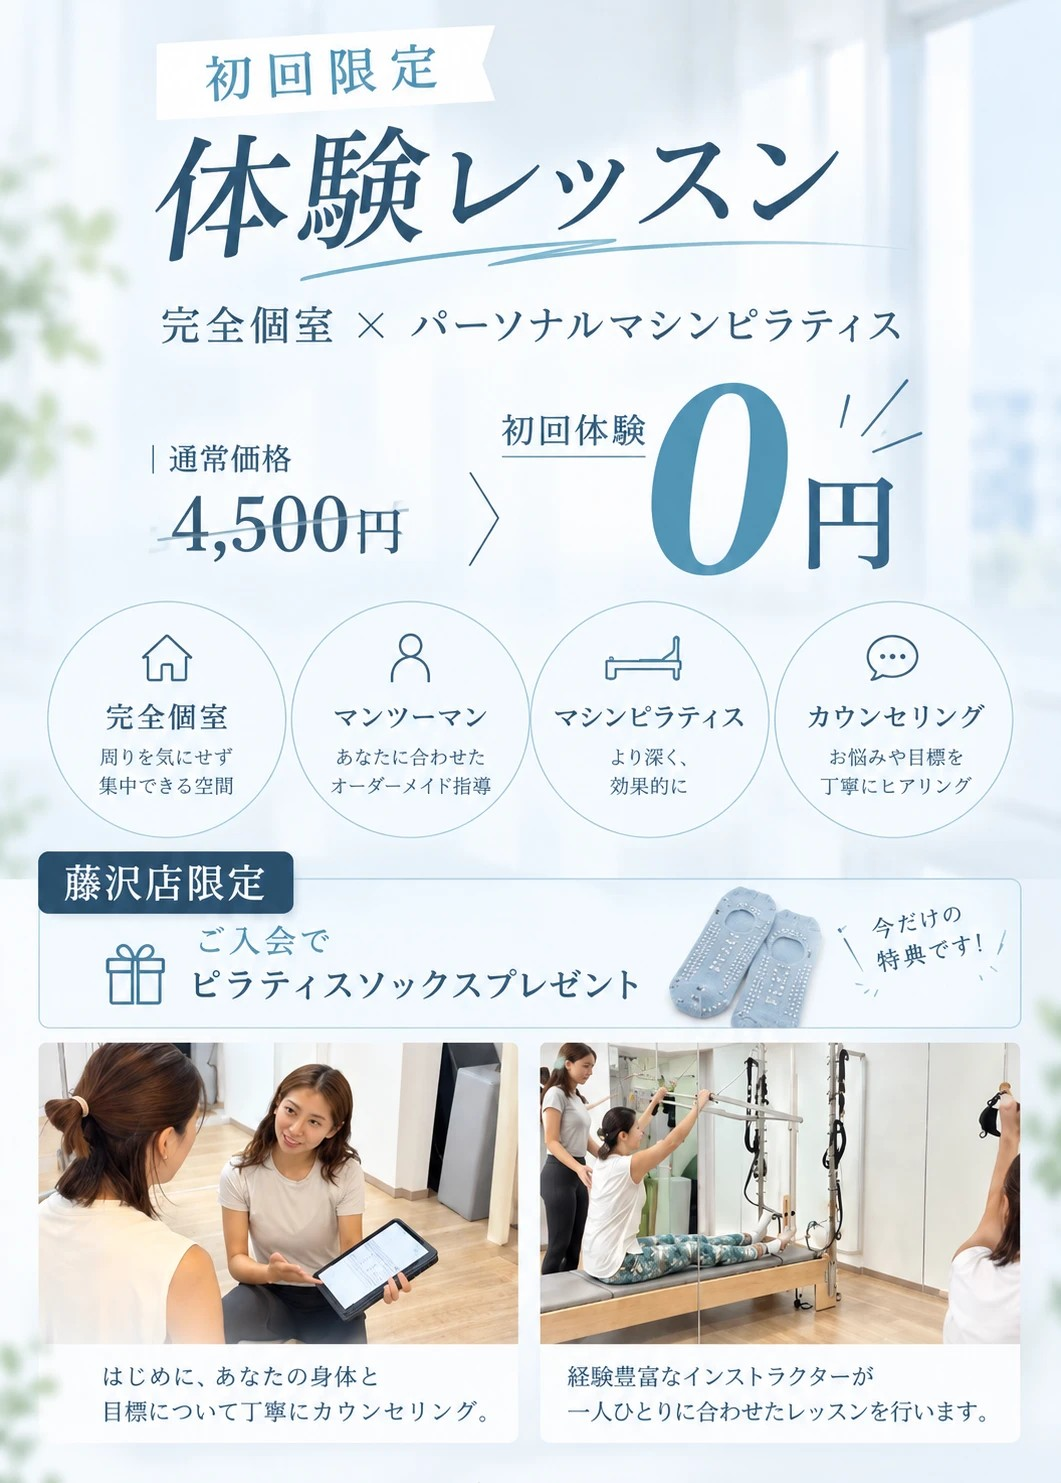
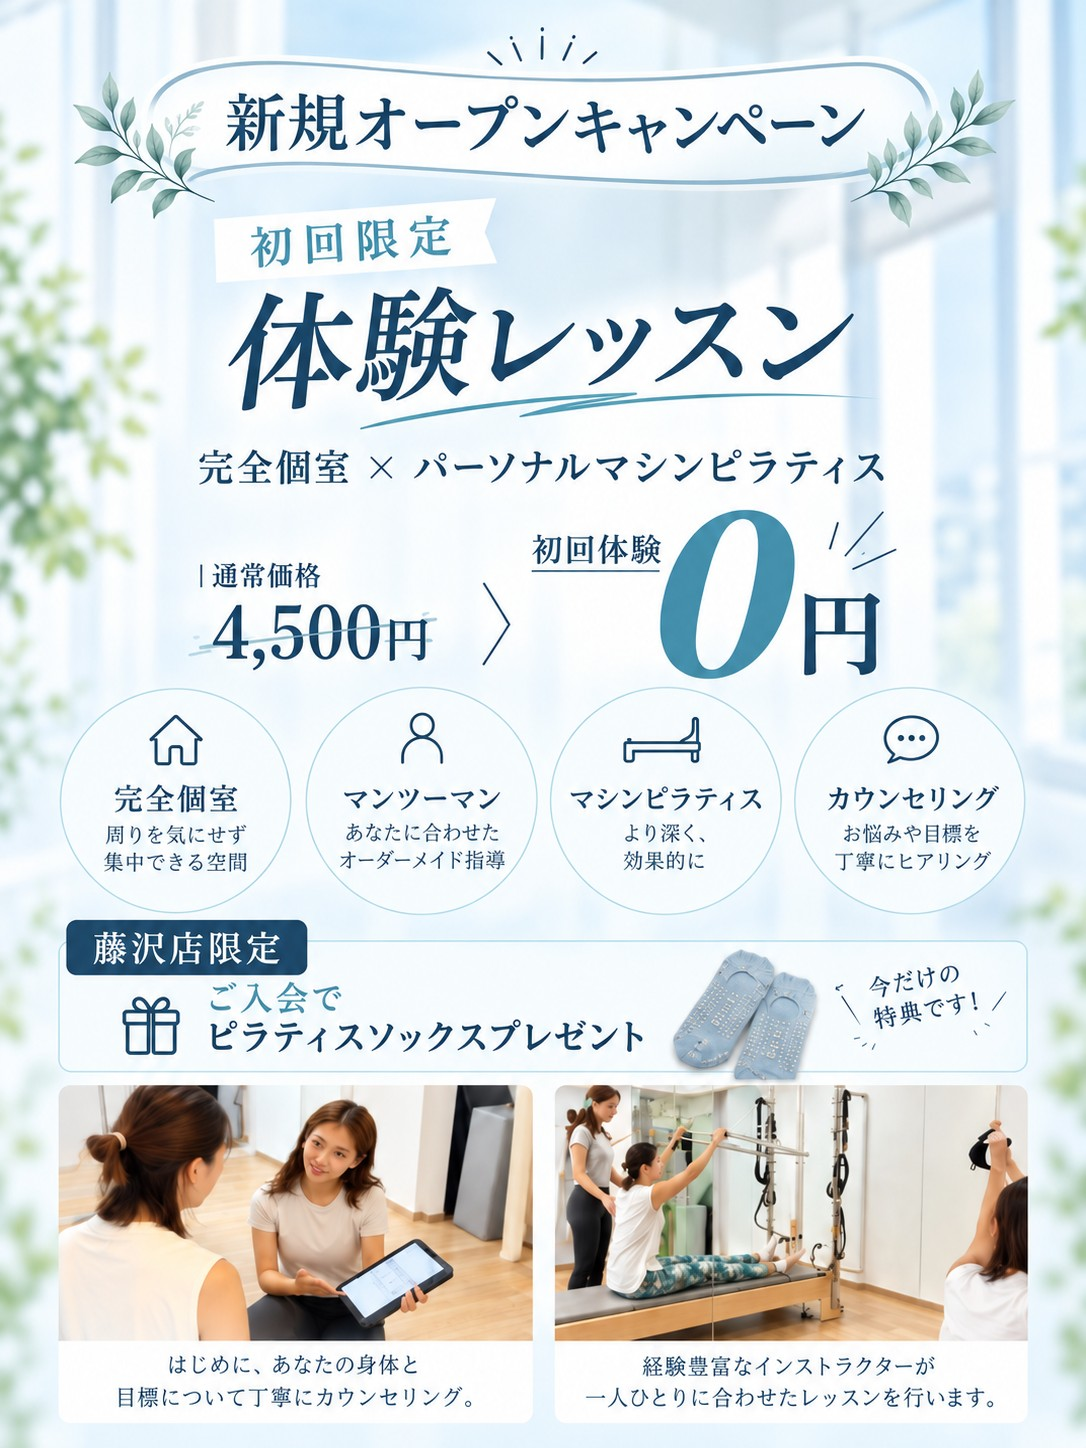
ivy-test: AUN 藤沢店指摘（最上部の帯・体験画像・地域最安級・クロージング）
- 最上部に顧客支給の帯画像（祝・藤沢店 NEW OPEN / 藤沢店限定 無料体験レッスン受付中）を追加
- 体験レッスン画像を新規オープンキャンペーン版に差し替え
- 月4回プランに「地域最安級」バッジを重ねる
- クロージングの藤沢店限定バッジを「新規オープン記念 藤沢店限定」に拡大、特典カードの文字位置を調整

diff --git a/apps/lp/clients/ivy-test/page.tsx b/apps/lp/clients/ivy-test/page.tsx
@@ -561,9 +561,13 @@ export default function Page() {
               予約導線は直下の体験レッスン画像（リンク付き）と追従CTAが担う。
               config の header / offerBar / featureBar / fv はデータを残してあるので、
               戻すときはここに元のブロックを書き戻す。 */}
+          {/* 最上部の帯（顧客支給、AUN 2026-10-02）。
+              「祝・藤沢店 NEW OPEN」と「藤沢店限定 無料体験レッスン受付中」を
+              1枚にした画像。FV画像側にあった旧い帯は切り落としてある。 */}
+          <FullBleed img={c.topBand.img} ratio="1996 / 380" alt={c.topBand.imgAlt} />
           <FullBleed
             img={c.topImage.img}
-            ratio="1027 / 1450"
+            ratio="1027 / 1356"
             alt={c.topImage.imgAlt}
           />
 
@@ -571,7 +575,7 @@ export default function Page() {
               顧客支給の画像に置き換え（2026-09-30 AUN #2、2026-10-01 差し替え）。
               差し替え後の画像には予約ボタンが描かれていないため、
               画像はリンクにせず、下に実体の <Cta> を置く。 */}
-          <FullBleed img={c.trial.img} ratio="1061 / 1483" alt={c.trial.imgAlt} />
+          <FullBleed img={c.trial.img} ratio="1086 / 1448" alt={c.trial.imgAlt} />
           <div style={{ background: "#EEF5F9", padding: "4px 24px 28px" }}>
             <Cta marginTop={0} />
           </div>
@@ -651,7 +655,35 @@ export default function Page() {
               月8回52,000円）。値上げやプラン変更のときは config を直すだけでは
               表示が変わらない。必ず画像を作り直すこと。 */}
           <Section flush background={PALE} style={{ padding: "0" }}>
-            <FullBleed img={c.price.img} ratio="1024 / 1516" alt={c.price.imgAlt} />
+            {/* STANDARD（月4回）にも「地域最安級」を足した（AUN 2026-10-02 #2）。
+                PREMIUM 側のバッジは画像に焼き込まれているため、こちらは重ねて置く。
+                位置は画像比（1024x1516）の%で指定し、1回あたり欄の右上に掛ける。 */}
+            <div style={{ position: "relative" }}>
+              <FullBleed img={c.price.img} ratio="1024 / 1516" alt={c.price.imgAlt} />
+              <span
+                aria-hidden
+                style={{
+                  position: "absolute",
+                  left: "60.5%",
+                  top: "47.9%",
+                  width: "22%",
+                  height: "3.9%",
+                  display: "flex",
+                  alignItems: "center",
+                  justifyContent: "center",
+                  borderRadius: 999,
+                  background: "#3B7EA5",
+                  color: "#FFFFFF",
+                  fontFamily: GOTHIC,
+                  fontWeight: 700,
+                  fontSize: 12,
+                  letterSpacing: "0.02em",
+                  whiteSpace: "nowrap",
+                }}
+              >
+                {c.fv.priceBadge}
+              </span>
+            </div>
           </Section>
 
           {/* ─ ⑫ グループレッスンとの違い（非表示）─────────────
@@ -892,7 +924,28 @@ export default function Page() {
               ご入会特典は画像に入っている（config の `closing` はデータだけ残置）。
               画像にボタンは無いので、下に実体の <Cta> を置く。 */}
           <div style={{ background: "#FFFFFF", paddingBottom: 48 }}>
-            <FullBleed img={c.closingImage.img} ratio="1024 / 1640" alt={c.closingImage.imgAlt} />
+            {/* 画像上部の「藤沢店限定」バッジは画像から切り落とし、
+                「新規オープン記念 藤沢店限定」に大きくして HTML で置いた
+                （AUN 2026-10-02 #3）。 */}
+            <div style={{ textAlign: "center", padding: "22px 0 4px" }}>
+              <span
+                style={{
+                  display: "inline-block",
+                  background: ACCENT,
+                  color: "#FFFFFF",
+                  fontFamily: MINCHO,
+                  fontWeight: 700,
+                  fontSize: 19,
+                  letterSpacing: "0.08em",
+                  lineHeight: 1,
+                  padding: "11px 26px",
+                  borderRadius: 999,
+                }}
+              >
+                新規オープン記念　藤沢店限定
+              </span>
+            </div>
+            <FullBleed img={c.closingImage.img} ratio="1024 / 1530" alt={c.closingImage.imgAlt} />
             <div style={{ padding: "0 24px" }}>
               <Cta marginTop={8} />
             </div>

diff --git a/apps/lp/clients/ivy-test/config.ts b/apps/lp/clients/ivy-test/config.ts
@@ -43,8 +43,12 @@ export interface IvyBConfig {
    * 戻すときは page.tsx に元のブロックを書き戻すこと。
    */
   topImage: { img: Slot; imgAlt: string };
+  /** 最上部の帯。画像に文言が焼き込まれている（顧客支給、2026-10-02）。 */
+  topBand: { img: Slot; imgAlt: string };
   /**
    * ご入会特典バンドを置き換える体験レッスンの画像（同 AUN #2）。
+   * 2026-10-02 に「新規オープンキャンペーン」版（1086x1448）へ再差し替え
+   * （AUN 藤沢店指摘 #4）。ソックス特典の「藤沢店限定」は画像に入っている。
    * 2026-10-01 の差し替え画像にはCTAボタンが描かれていないため、
    * 画像はリンクにせず、page.tsx 側で実体の <Cta> を下に置いている。
    */
@@ -313,6 +317,10 @@ const config: IvyBConfig = {
     ogpImage: `${ASSET}/hero-poster.jpg`,
   },
 
+  topBand: {
+    img: { placeholder: "祝・藤沢店 NEW OPEN 藤沢店限定 無料体験レッスン受付中", src: `${ASSET}/band.jpg` },
+    imgAlt: "祝・藤沢店 NEW OPEN。藤沢店限定 無料体験レッスン受付中。",
+  },
   topImage: {
     img: {
       placeholder: "STUDIO IVY 藤沢店 もっと好きになれる、私の身体へ。",
